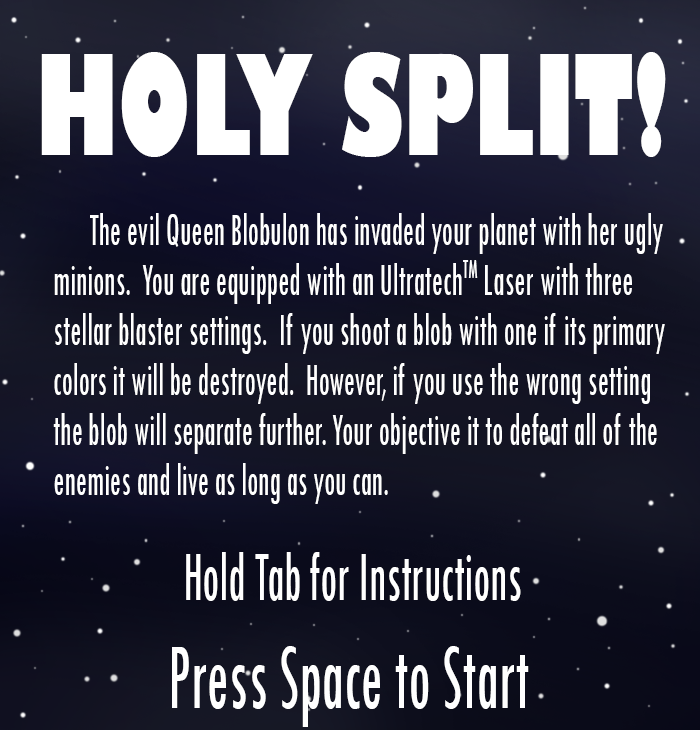
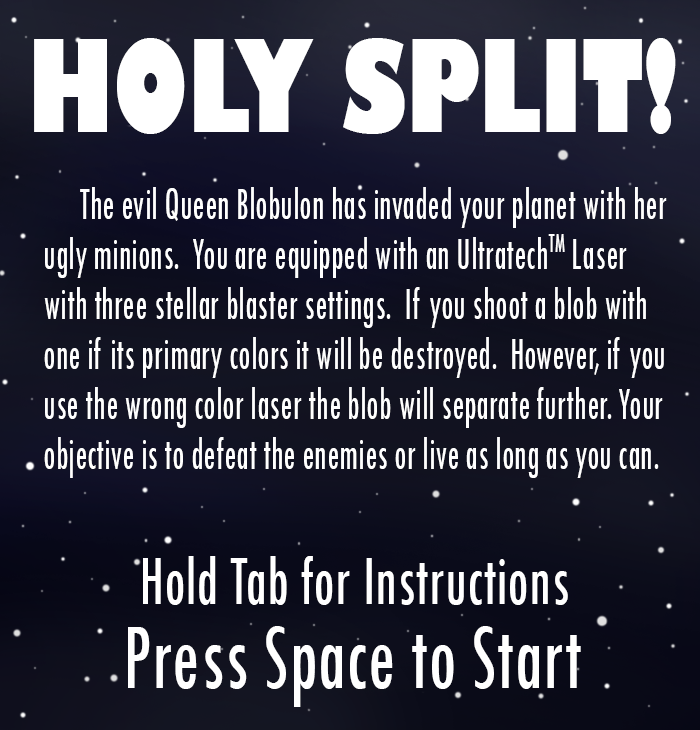
Scorescreen and updated menu

Changed region(s): [[0.03, 0.0301, 0.96, 0.6932], [0.18, 0.7534, 0.84, 0.9945], [0.48, 0.0301, 0.99, 0.2411]]

diff --git a/HolySplit/HolySplit/HolySplit/Game1.cs b/HolySplit/HolySplit/HolySplit/Game1.cs
@@ -31,6 +31,7 @@ namespace HolySplit
         SpriteFont largeFont;
 
         private Texture2D mainMenu;
+        private Texture2D scoreScreen;
 
         GraphicsDeviceManager graphics;
         SpriteBatch spriteBatch;
@@ -67,6 +68,7 @@ namespace HolySplit
             smallFont = Content.Load<SpriteFont>("fonts/smallfont");
             largeFont = Content.Load<SpriteFont>("fonts/largefont");
             mainMenu = Content.Load<Texture2D>("images/mainmenu");
+            scoreScreen = Content.Load<Texture2D>("images/scorescreen");
         }
 
         protected override void Update(GameTime gameTime)
@@ -126,7 +128,8 @@ namespace HolySplit
             }
             else if (gameState == GameState.ScoreScreen)
             {
-                spriteBatch.DrawString(smallFont, map.CalculateFinalScore(), new Vector2(0, 0), Color.Black);
+                spriteBatch.Draw(scoreScreen, new Vector2(0, 0), Color.White );
+                spriteBatch.DrawString(smallFont, map.CalculateFinalScore(), new Vector2(0, 0), Color.White);
             }
 
             spriteBatch.End();
